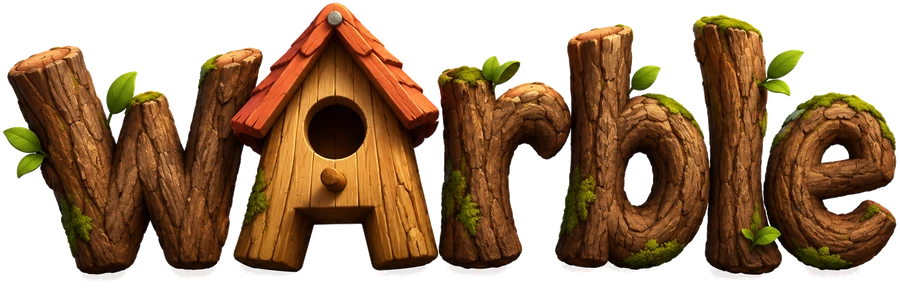
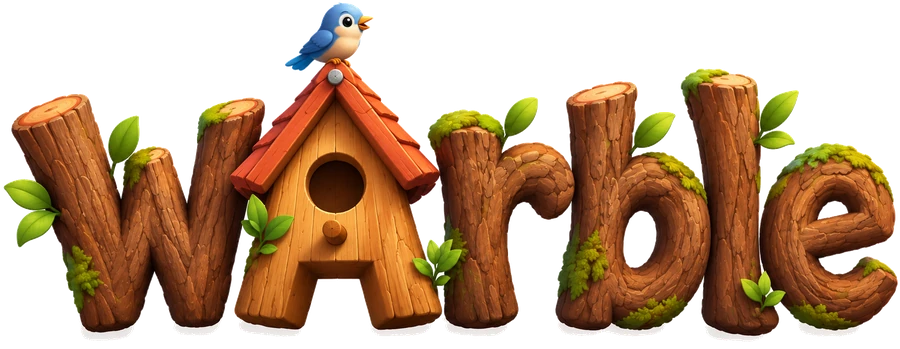
Update to the friendlier wordmark (with bluebird), resize wordmark + home mic button
- Top bar wordmark: 25% bigger (20px -> 25px)
- Home screen wordmark: 10% bigger (58px -> 64px)
- Home mic button: 10% smaller (120px -> 108px, scaled proportionally)

diff --git a/static/index.html b/static/index.html
@@ -49,10 +49,10 @@
   @keyframes featherPop{0%{transform:scale(1);}45%{transform:scale(1.28);}100%{transform:scale(1);}}
   .top-wordmark{
     position:absolute; left:50%; top:50%; transform:translate(-50%,-50%);
-    height:20px; pointer-events:none;
+    height:25px; pointer-events:none;
   }
   .home-wordmark{
-    height:58px; margin-bottom:22px;
+    height:64px; margin-bottom:22px;
   }
 
   .stage{width:100%;max-width:420px;display:flex;flex-direction:column;align-items:center;flex:1;justify-content:center;margin-top:16px;}
@@ -99,13 +99,13 @@
 
   /* --- Idle / Recording --- */
   .mic-btn{
-    width:120px;height:120px;border-radius:50%;
-    background:var(--terra); color:#fff; font-size:76px;
-    border:none; box-shadow:0 8px 0 var(--terra-dk);
+    width:108px;height:108px;border-radius:50%;
+    background:var(--terra); color:#fff; font-size:68px;
+    border:none; box-shadow:0 7px 0 var(--terra-dk);
     display:flex;align-items:center;justify-content:center;
     cursor:pointer; transition:transform .1s; position:relative; z-index:1;
   }
-  .mic-btn:active{transform:translateY(6px); box-shadow:0 2px 0 var(--terra-dk);}
+  .mic-btn:active{transform:translateY(5px); box-shadow:0 2px 0 var(--terra-dk);}
   /* Matches the 84px 'go again' mic button, not the larger 120px Home mic. */
   .mic-btn.recording{width:84px;height:84px;font-size:26px;box-shadow:0 6px 0 var(--terra-dk);margin-top:16px;}
   .mic-btn.recording:active{transform:translateY(4px); box-shadow:0 2px 0 var(--terra-dk);}
